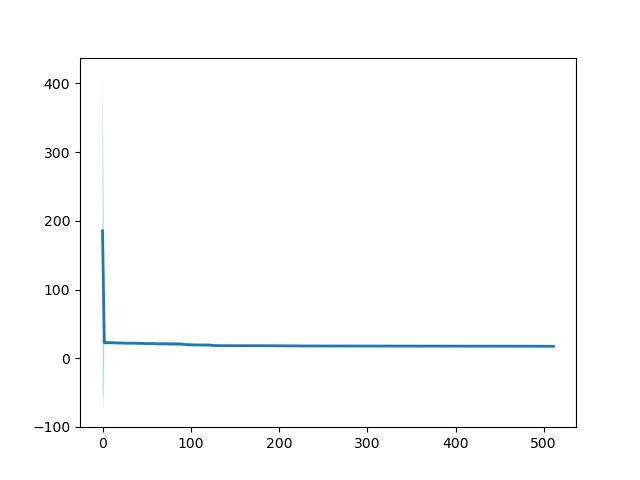
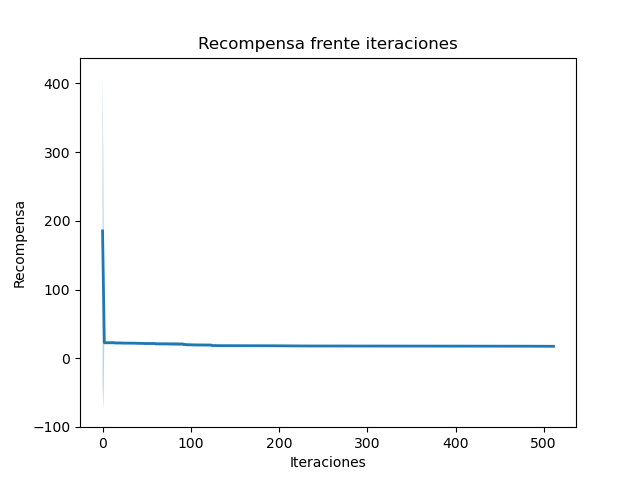
Poner titulos en los graficos.

diff --git a/avoid_obstacle/print_graph_with_error.py b/avoid_obstacle/print_graph_with_error.py
@@ -4,7 +4,7 @@ import matplotlib.pyplot as plt
 import scipy.stats as sp
 import math
 
-file = "listas_bayesopt_waypoints.p"
+file = "listas_bayesopt_waypoints_esfericas.p"
 listas = pickle.load(open(file, "rb"))
 
 n_iteraciones = len(listas[0].list_of_rewards)
@@ -31,6 +31,8 @@ plt.fill(np.concatenate([it, it[::-1]]),
          np.concatenate([res_mean + t_limits[0] * res_std,
                          (res_mean + t_limits[1] * res_std)[::-1]]),
          alpha=.3)
-
-plt.savefig("it_rew_bayesopt.png")
+plt.ylabel(ylabel='Recompensa')
+plt.xlabel(xlabel='Iteraciones')
+plt.title(label='Recompensa frente iteraciones')
+plt.savefig("it_rew_bayesopt_esfericas.png")
 plt.show()
